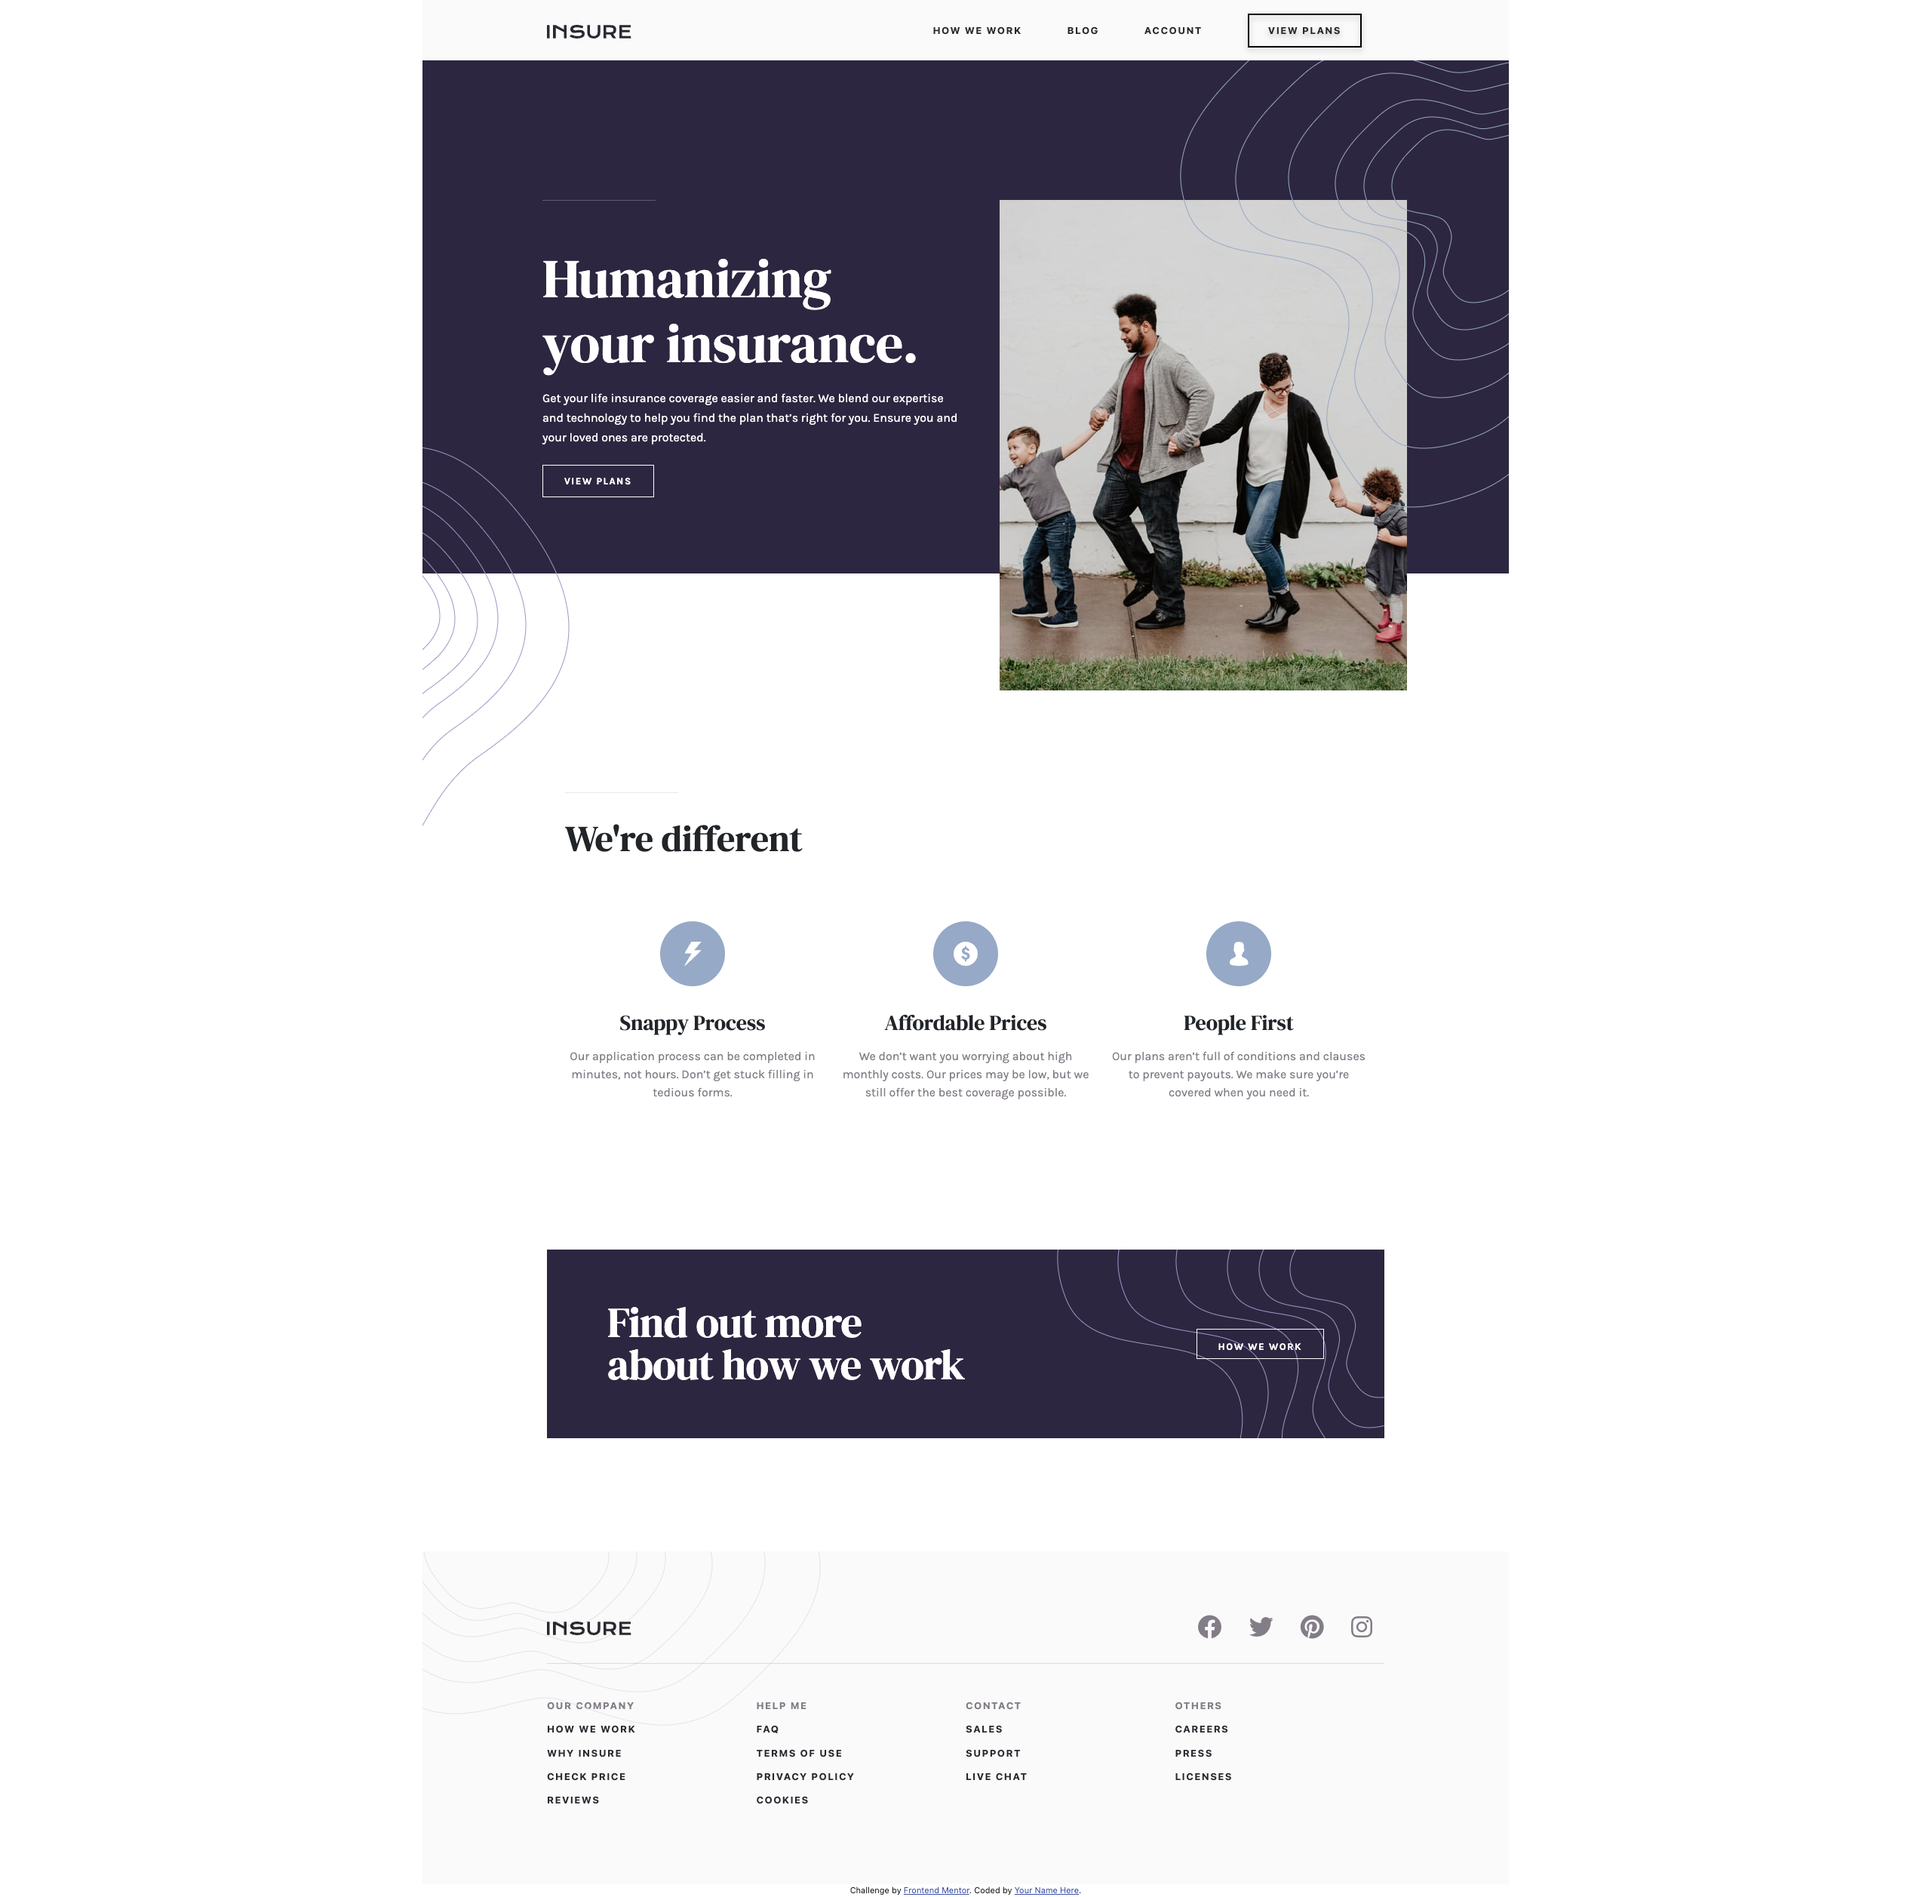
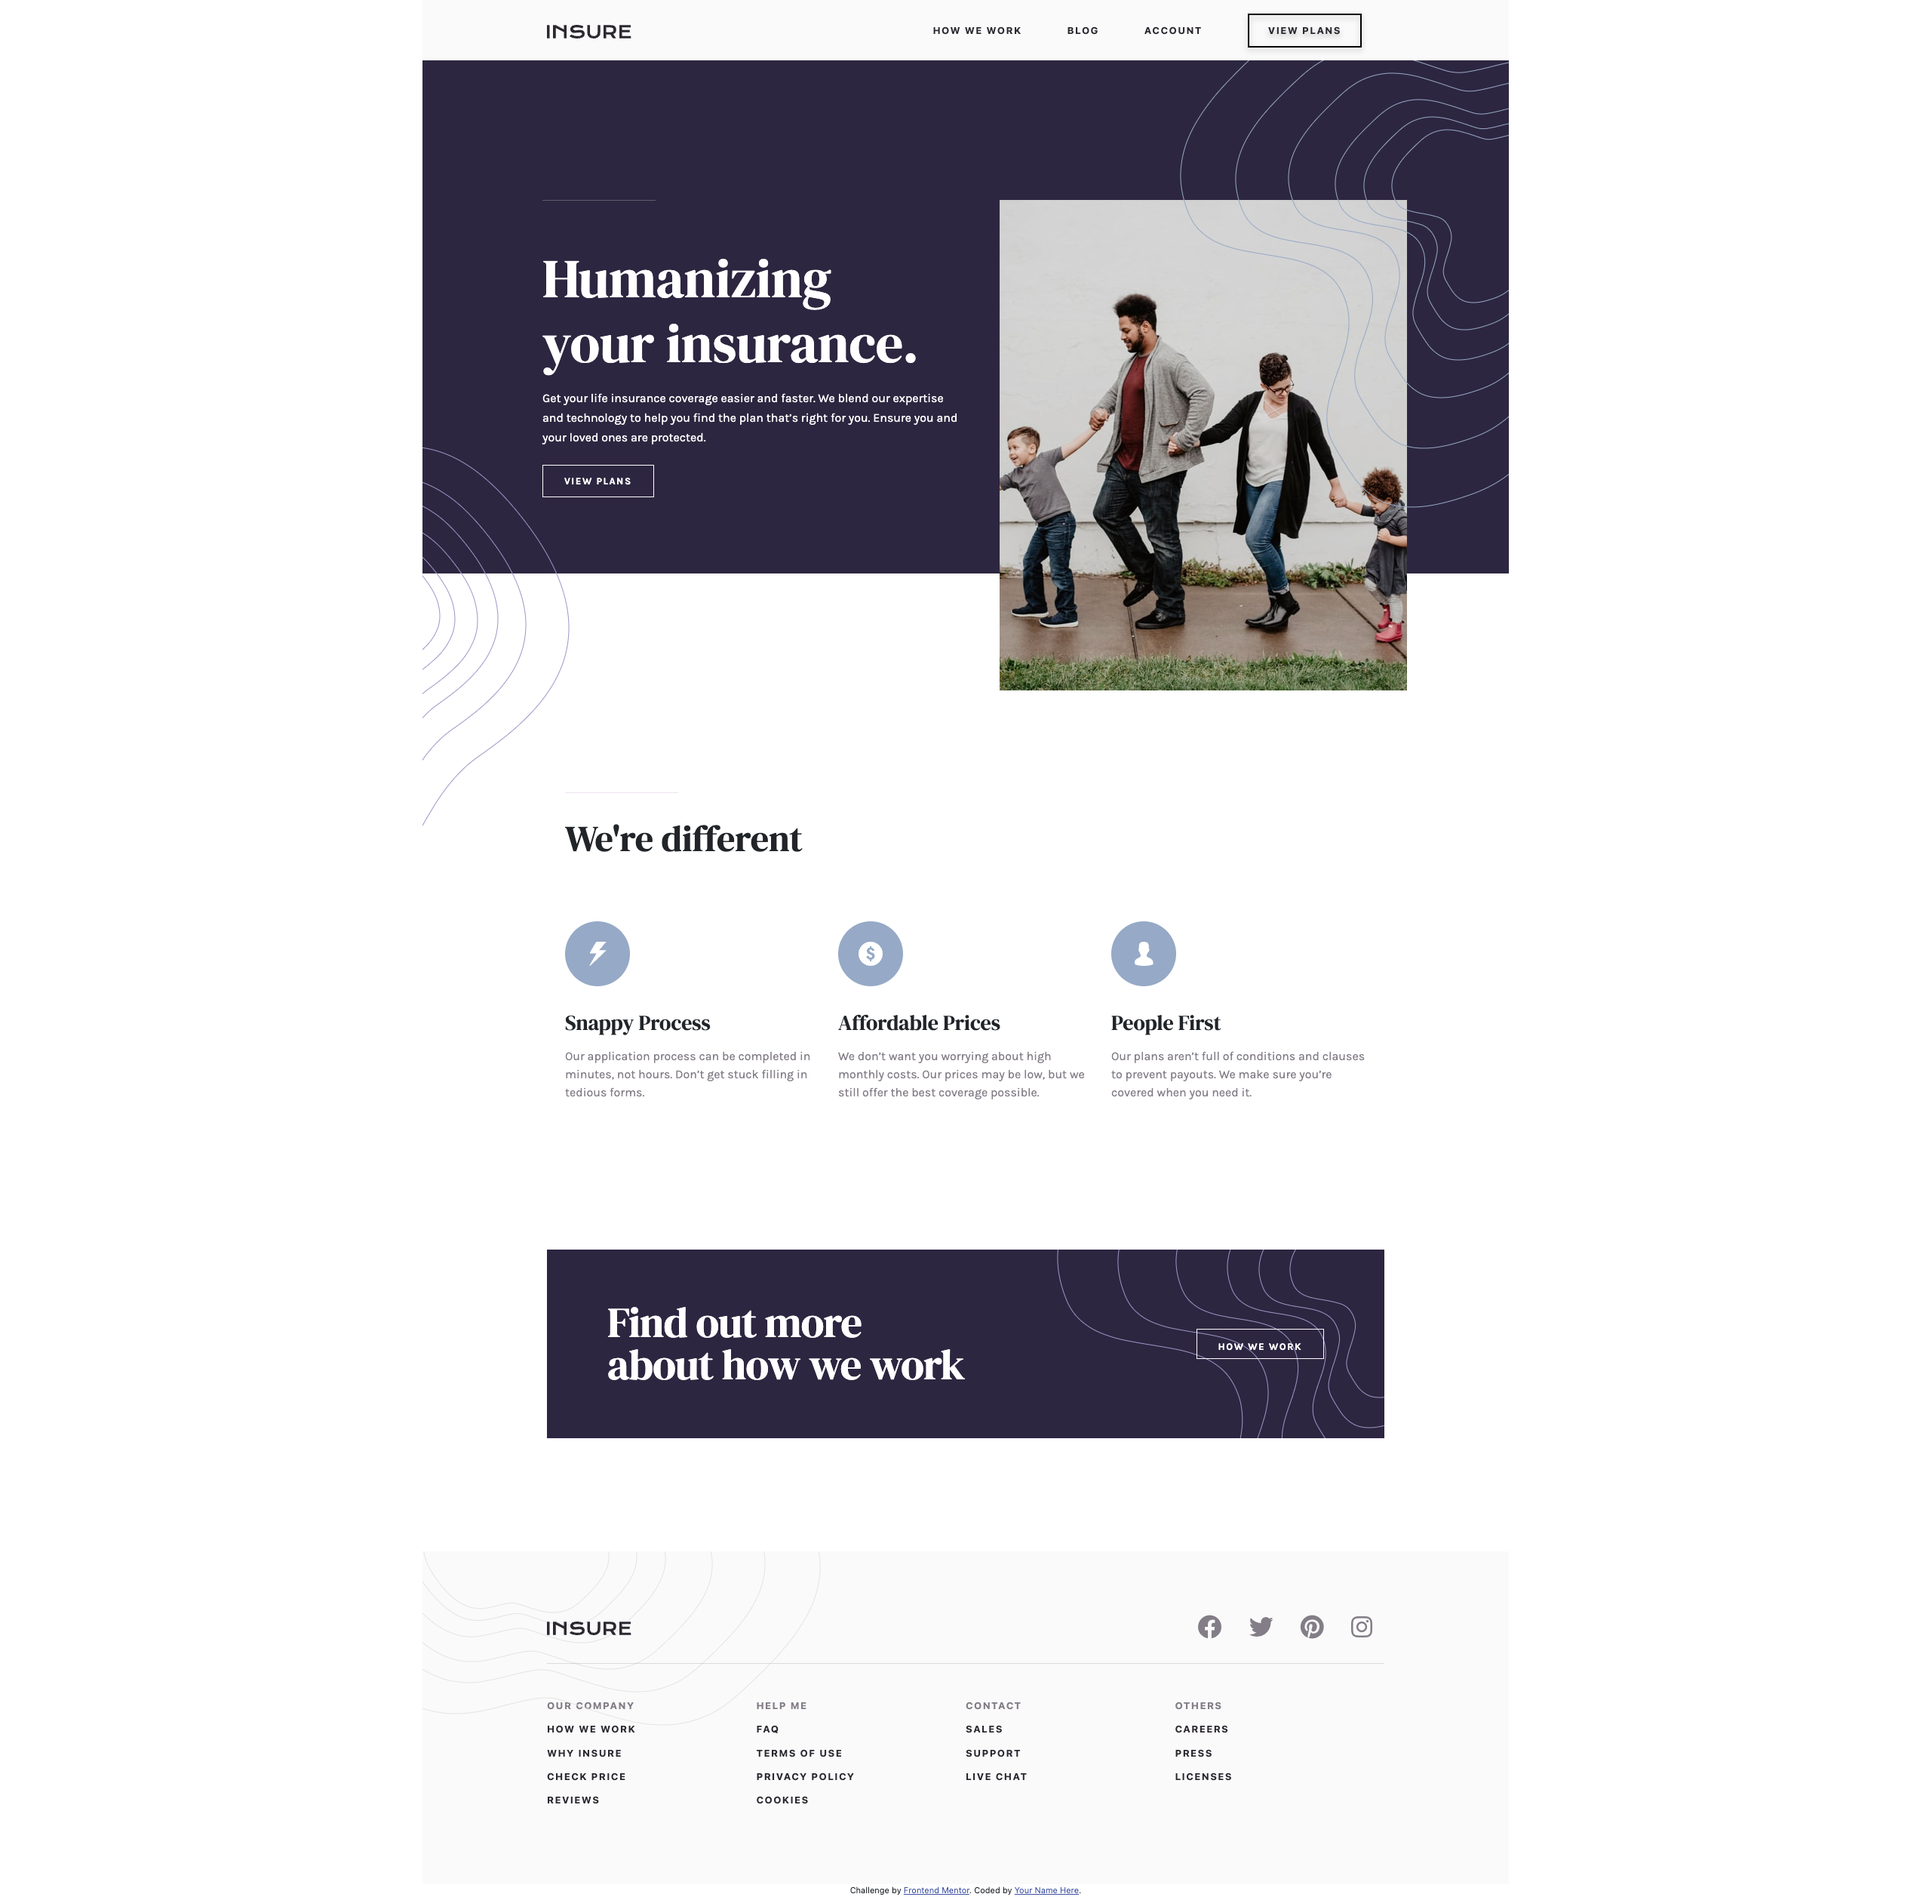
new screenshot and fixed alignment

Changed region(s): [[0.4346, 0.4654, 0.5587, 0.5895], [0.2794, 0.4654, 0.4035, 0.5895], [0.5587, 0.4654, 0.6829, 0.5895]]

diff --git a/index.html b/index.html
@@ -175,7 +175,9 @@
                     <h1>We're different</h1>
                 </div>
                 <div class="row d-flex">
-                    <div class="col-12 col-sm-4 differentSections">
+                    <div
+                        class="col-12 col-sm-4 differentSections text-sm-start"
+                    >
                         <img
                             src="./images/icon-snappy-process.svg"
                             alt="snappy process icon"
@@ -186,7 +188,9 @@
                             not hours. Don’t get stuck filling in tedious forms.
                         </p>
                     </div>
-                    <div class="col-12 col-sm-4 differentSections">
+                    <div
+                        class="col-12 col-sm-4 differentSections text-sm-start"
+                    >
                         <img
                             src="./images/icon-affordable-prices.svg"
                             alt="afforable prices icon"
@@ -198,7 +202,9 @@
                             coverage possible.
                         </p>
                     </div>
-                    <div class="col-12 col-sm-4 differentSections mb-0">
+                    <div
+                        class="col-12 col-sm-4 differentSections mb-0 text-sm-start"
+                    >
                         <img
                             src="./images/icon-people-first.svg"
                             alt="people first icon"
